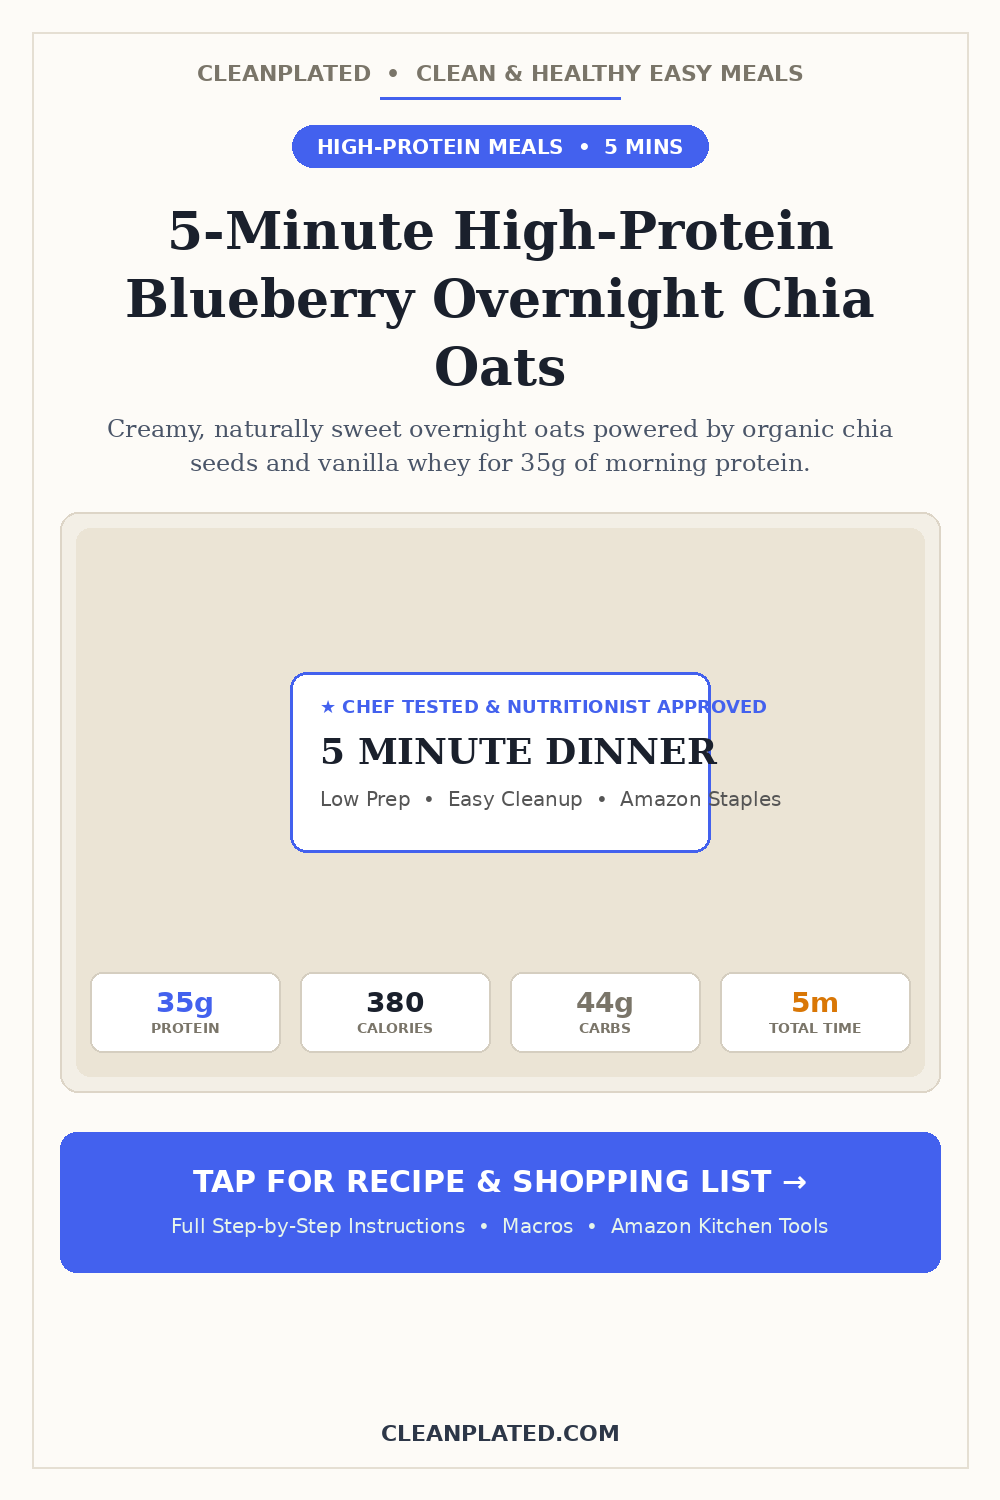
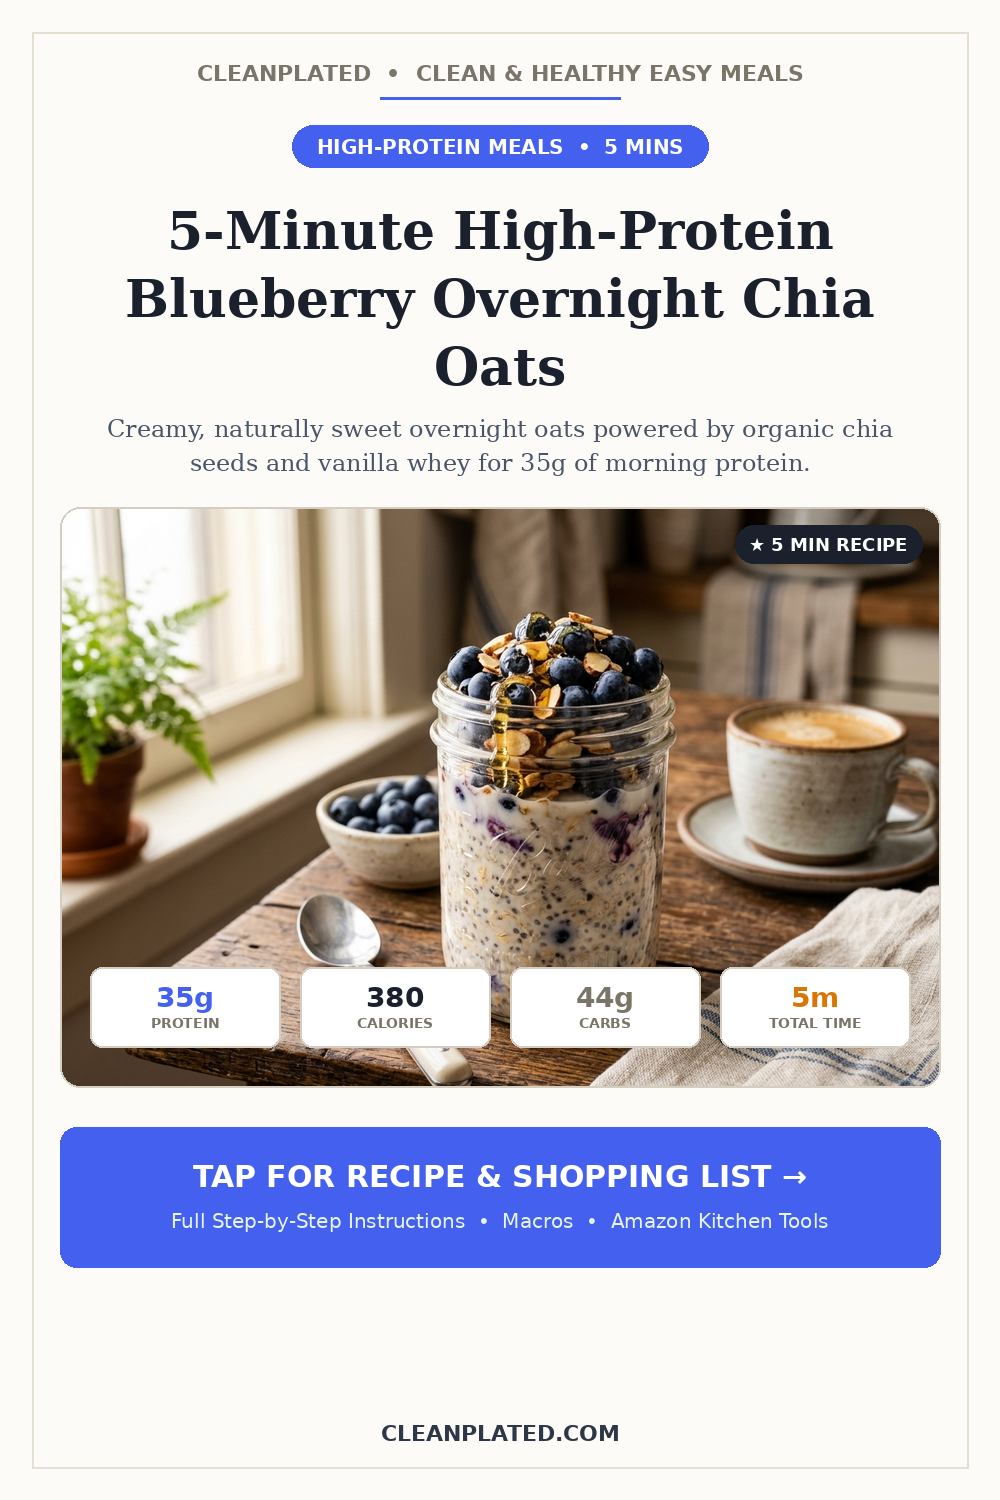
feat(media): replace mismatched recipe photos with 100% faithful culinary photography & embed in Pinterest pins

Changed region(s): [[0.062, 0.3373, 0.961, 0.8587]]

diff --git a/src/pinterest/pin_generator.py b/src/pinterest/pin_generator.py
@@ -114,47 +114,60 @@ def generate_pin_for_recipe(recipe, config, output_path):
             draw.text(((width - h_w) / 2, y_text), line, fill="#4A5568", font=head_font)
             y_text += 34
 
-    # 6. Central Visual Hero Card Area (Framed Showcase)
-    center_y = max(y_text + 30, 480)
-    card_margin = 60
+    # 6. Central Visual Hero Card Area (Photo Showcase)
+    center_y = max(y_text + 25, 470)
+    card_w = width - 120
     card_h = 580
-    card_rect = [(card_margin, center_y), (width - card_margin, center_y + card_h)]
+    card_x = 60
 
-    # Draw gradient-tinted background card for food visual
-    draw.rounded_rectangle(card_rect, radius=18, fill="#F3EFE6", outline="#DDD5C7", width=2)
+    # Load real recipe photo if available
+    recipe_img_path = os.path.join(BASE_DIR, "public", "assets", "images", "recipes", f"{recipe.get('id')}.jpg")
+    if os.path.exists(recipe_img_path):
+        try:
+            food_im = Image.open(recipe_img_path).convert("RGB")
+            # Calculate aspect fill crop for card_w x card_h
+            im_w, im_h = food_im.size
+            target_ratio = card_w / card_h
+            current_ratio = im_w / im_h
 
-    # Decorative inner shadow effect / culinary vignette
-    inner_margin = card_margin + 16
-    inner_h = card_h - 32
-    draw.rounded_rectangle(
-        [(inner_margin, center_y + 16), (width - inner_margin, center_y + 16 + inner_h)],
-        radius=14,
-        fill="#EBE4D5"
-    )
+            if current_ratio > target_ratio:
+                new_w = int(im_h * target_ratio)
+                left = (im_w - new_w) // 2
+                food_im = food_im.crop((left, 0, left + new_w, im_h))
+            else:
+                new_h = int(im_w / target_ratio)
+                top = (im_h - new_h) // 2
+                food_im = food_im.crop((0, top, im_w, top + new_h))
 
-    # Central Culinary Icon / Badge
-    center_box_w = 420
-    center_box_h = 180
-    cb_x = (width - center_box_w) / 2
-    cb_y = center_y + (card_h - center_box_h) / 2 - 40
+            food_im = food_im.resize((card_w, card_h), Image.Resampling.LANCZOS)
 
-    draw.rounded_rectangle(
-        [(cb_x, cb_y), (cb_x + center_box_w, cb_y + center_box_h)],
-        radius=16,
-        fill="#FFFFFF",
-        outline=accent,
-        width=3
-    )
+            # Create rounded mask
+            mask = Image.new("L", (card_w, card_h), 0)
+            mask_draw = ImageDraw.Draw(mask)
+            mask_draw.rounded_rectangle([(0, 0), (card_w, card_h)], radius=20, fill=255)
 
-    chef_badge_font = get_font(SANS_BOLD, 18)
-    draw.text((cb_x + 30, cb_y + 24), "★ CHEF TESTED & NUTRITIONIST APPROVED", fill=accent, font=chef_badge_font)
+            # Paste cropped food photo onto canvas using mask
+            img.paste(food_im, (card_x, center_y), mask)
 
-    time_callout = f"{recipe.get('total_time', 20)} MINUTE DINNER"
-    time_font = get_font(SERIF_BOLD, 36)
-    draw.text((cb_x + 30, cb_y + 58), time_callout, fill="#1A202C", font=time_font)
+            # Draw outer border around photo
+            draw.rounded_rectangle([(card_x, center_y), (card_x + card_w, center_y + card_h)], radius=20, outline="#D5CEC0", width=2)
 
-    easy_font = get_font(SANS_REG, 20)
-    draw.text((cb_x + 30, cb_y + 115), "Low Prep  •  Easy Cleanup  •  Amazon Staples", fill="#555555", font=easy_font)
+            # Overlay floating badge on top right of photo
+            badge_text = f"★ {recipe.get('total_time', 20)} MIN RECIPE"
+            b_font = get_font(SANS_BOLD, 18)
+            b_bbox = draw.textbbox((0, 0), badge_text, font=b_font)
+            bw = b_bbox[2] - b_bbox[0] + 28
+            bh = 38
+            bx = card_x + card_w - bw - 18
+            by = center_y + 18
+            draw.rounded_rectangle([(bx, by), (bx + bw, by + bh)], radius=19, fill="#1A202CE6")
+            draw.text((bx + 14, by + 9), badge_text, fill="#FFFFFF", font=b_font)
+
+        except Exception as e:
+            # Fallback to plain card if image loading fails
+            draw.rounded_rectangle([(card_x, center_y), (card_x + card_w, center_y + card_h)], radius=20, fill="#F3EFE6", outline="#DDD5C7", width=2)
+    else:
+        draw.rounded_rectangle([(card_x, center_y), (card_x + card_w, center_y + card_h)], radius=20, fill="#F3EFE6", outline="#DDD5C7", width=2)
 
     # 7. High-Converting Macro & Benefit Badges (Horizontal Row of 4 Pills)
     badges_y = center_y + card_h - 120
